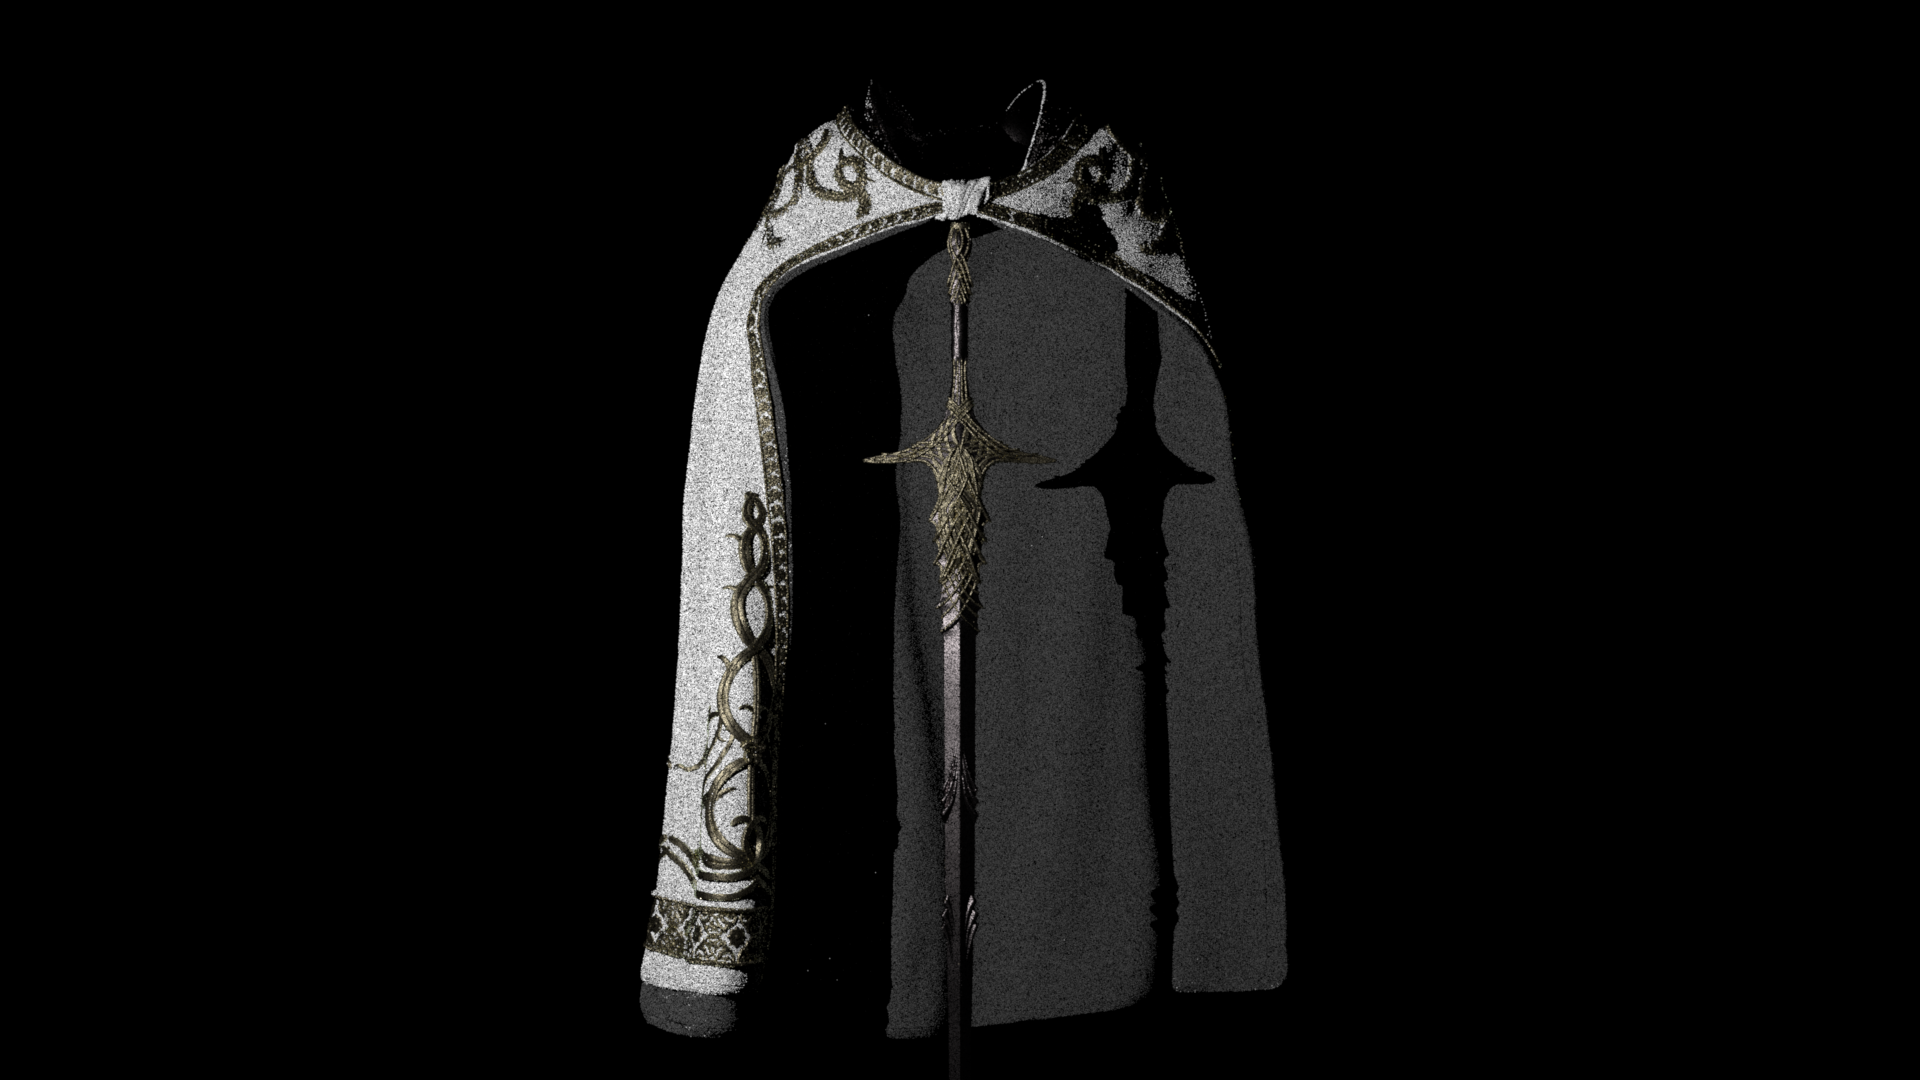
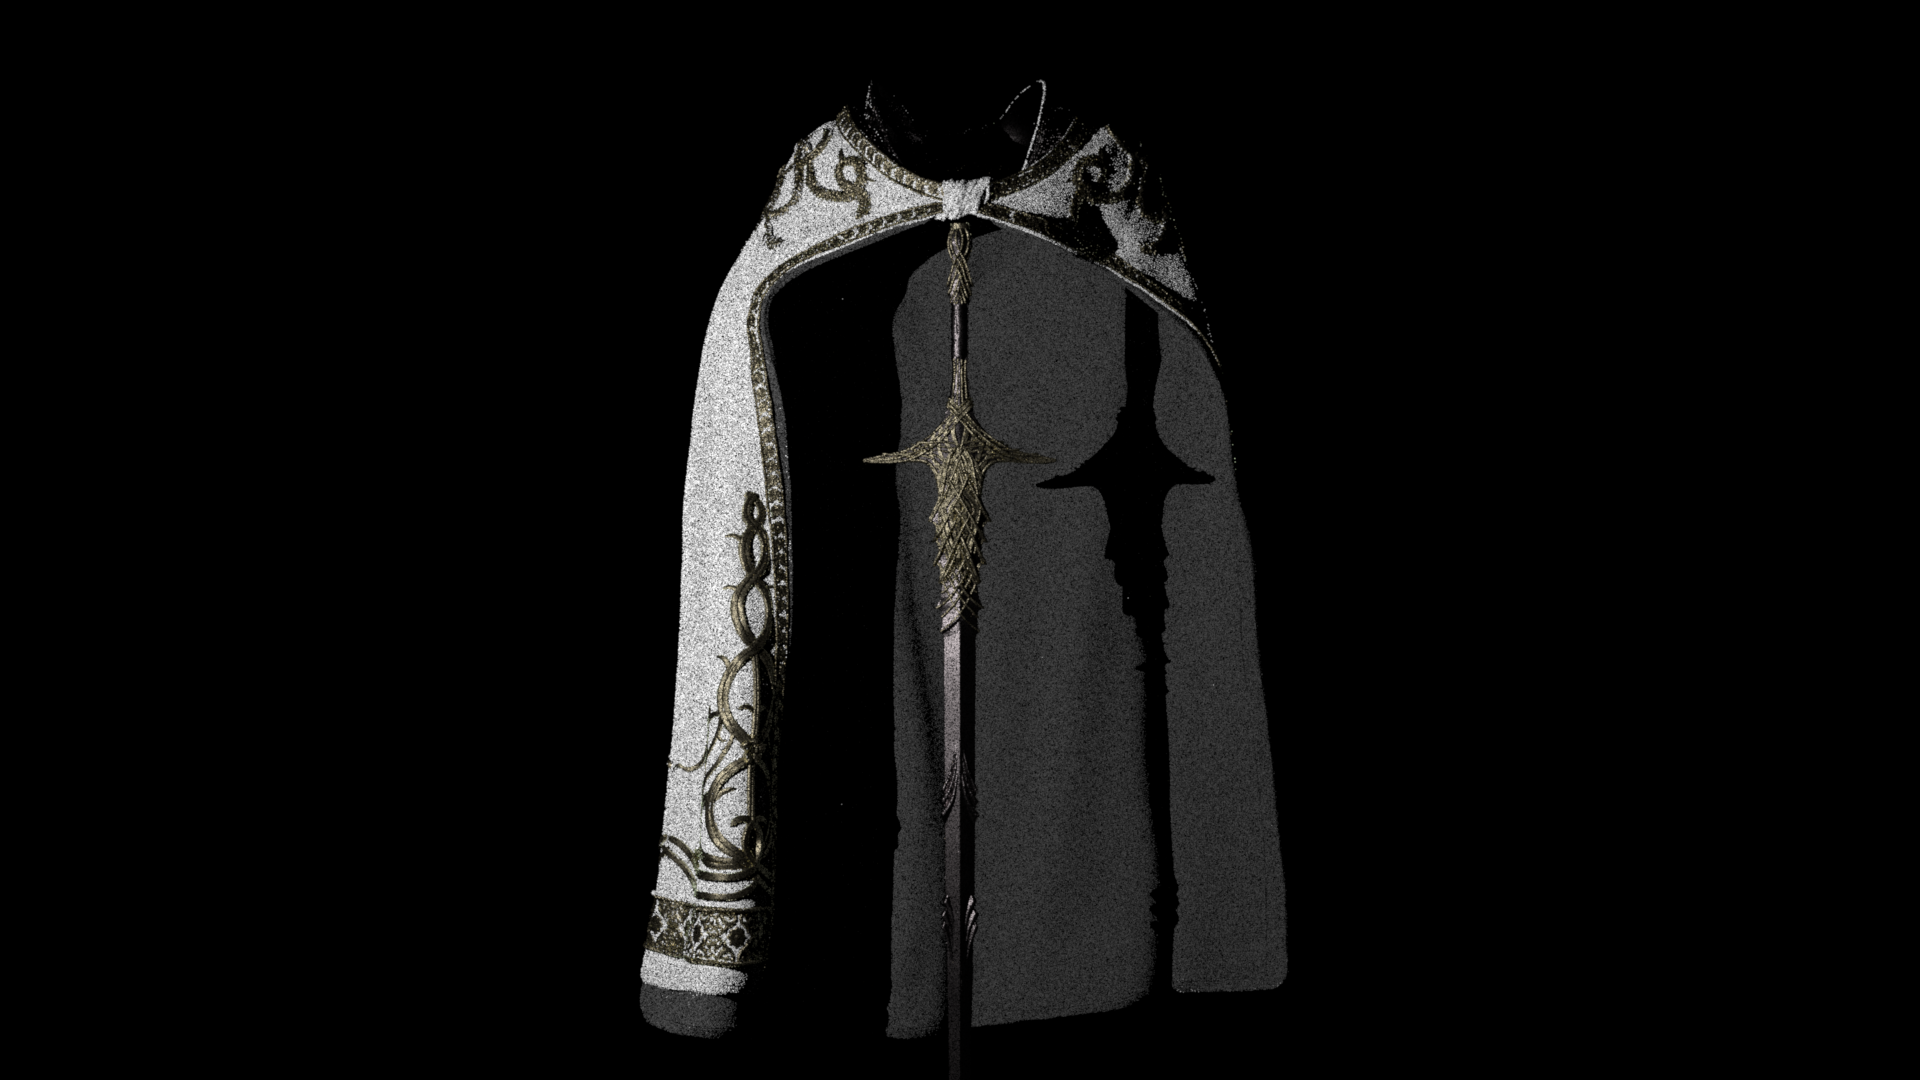
Added depth and directWhitted integrators

Changed region(s): [[0.3125, 0.0917, 0.625, 0.9472], [0.4688, 0.3667, 0.5312, 0.6417]]

diff --git a/src/directWhitted.cpp b/src/directWhitted.cpp
@@ -1,0 +1,74 @@
+
+
+#include <nori/scene.h>
+#include <nori/integrator.h>
+#include <nori/math.h>
+#include <nori/warp.h>
+#include <nori/emitter.h>
+#include <nori/sampler.h>
+#include <nori/bsdf.h>
+#include <nori/pathtracing.h>
+
+NORI_NAMESPACE_BEGIN
+
+class directWhitted : public Integrator {
+public:
+
+    directWhitted(const PropertyList &props) {}
+
+    // Integrate a diffuse surface
+    Color3f diffuseIntegration(const Scene *scene, Sampler *sampler, const Ray3f &ray,
+                Intersection &intersection) const
+    {
+        PathState state;
+        state.ray = ray;
+        state.intersection = intersection;
+
+        Color3f incoming = Pth::nextEventEstimation(scene, sampler, state);
+        return incoming;
+    }
+
+    Color3f Li (const Scene *scene, Sampler *sampler, const Ray3f &ray, int depth) const
+    {
+        /* Find the surface that is visible in the requested direction */
+        Intersection intersection;
+        if (!scene->rayIntersect(ray, intersection))
+            return Color3f(0.0f);
+
+        /* Retrieve the emitter associated with the surface */
+        const Emitter *emitter = intersection.mesh->getEmitter();
+        
+        Color3f radiance = Color3f(0.0f);
+
+        if (emitter != nullptr)
+        {
+            // Render emitter
+            EmitterQueryRecord emitterQuery(-ray.d, EDiscrete);
+            emitterQuery.lightP = intersection.p;
+            radiance += emitter->eval(emitterQuery);
+        } 
+        else if (intersection.mesh->getBSDF()->isDiffuse()) 
+        {
+            // Render diffuse surface
+            radiance += diffuseIntegration(scene, sampler, ray, intersection);
+        }
+
+        return radiance;
+    }
+
+    Color3f Li(const Scene *scene, Sampler *sampler, const Ray3f &ray) const 
+    {
+        PathState state;
+        state.ray = ray;
+        
+        return Li(scene, sampler, ray, 0);
+    }
+
+    std::string toString() const {
+        return "directWhitted[]";
+    }
+};
+
+NORI_REGISTER_CLASS(directWhitted, "direct_whitted");
+NORI_NAMESPACE_END
+

diff --git a/src/depthIntegrator.cpp b/src/depthIntegrator.cpp
@@ -1,0 +1,38 @@
+
+
+#include <nori/scene.h>
+#include <nori/integrator.h>
+#include <nori/math.h>
+#include <nori/warp.h>
+#include <nori/emitter.h>
+#include <nori/sampler.h>
+#include <nori/bsdf.h>
+#include <nori/pathtracing.h>
+
+NORI_NAMESPACE_BEGIN
+
+class depthIntegrator : public Integrator {
+public:
+
+    depthIntegrator(const PropertyList &props) {}
+
+    Color3f Li(const Scene *scene, Sampler *sampler, const Ray3f &ray) const 
+    {
+        /* Find the surface that is visible in the requested direction */
+        Intersection intersection;
+        if (!scene->rayIntersect(ray, intersection))
+            return Color3f(0.0f);
+
+        float depth = intersection.t;
+
+        return Color3f(1 / depth);
+    }
+
+    std::string toString() const {
+        return "depthIntegrator[]";
+    }
+};
+
+NORI_REGISTER_CLASS(depthIntegrator, "depth");
+NORI_NAMESPACE_END
+
